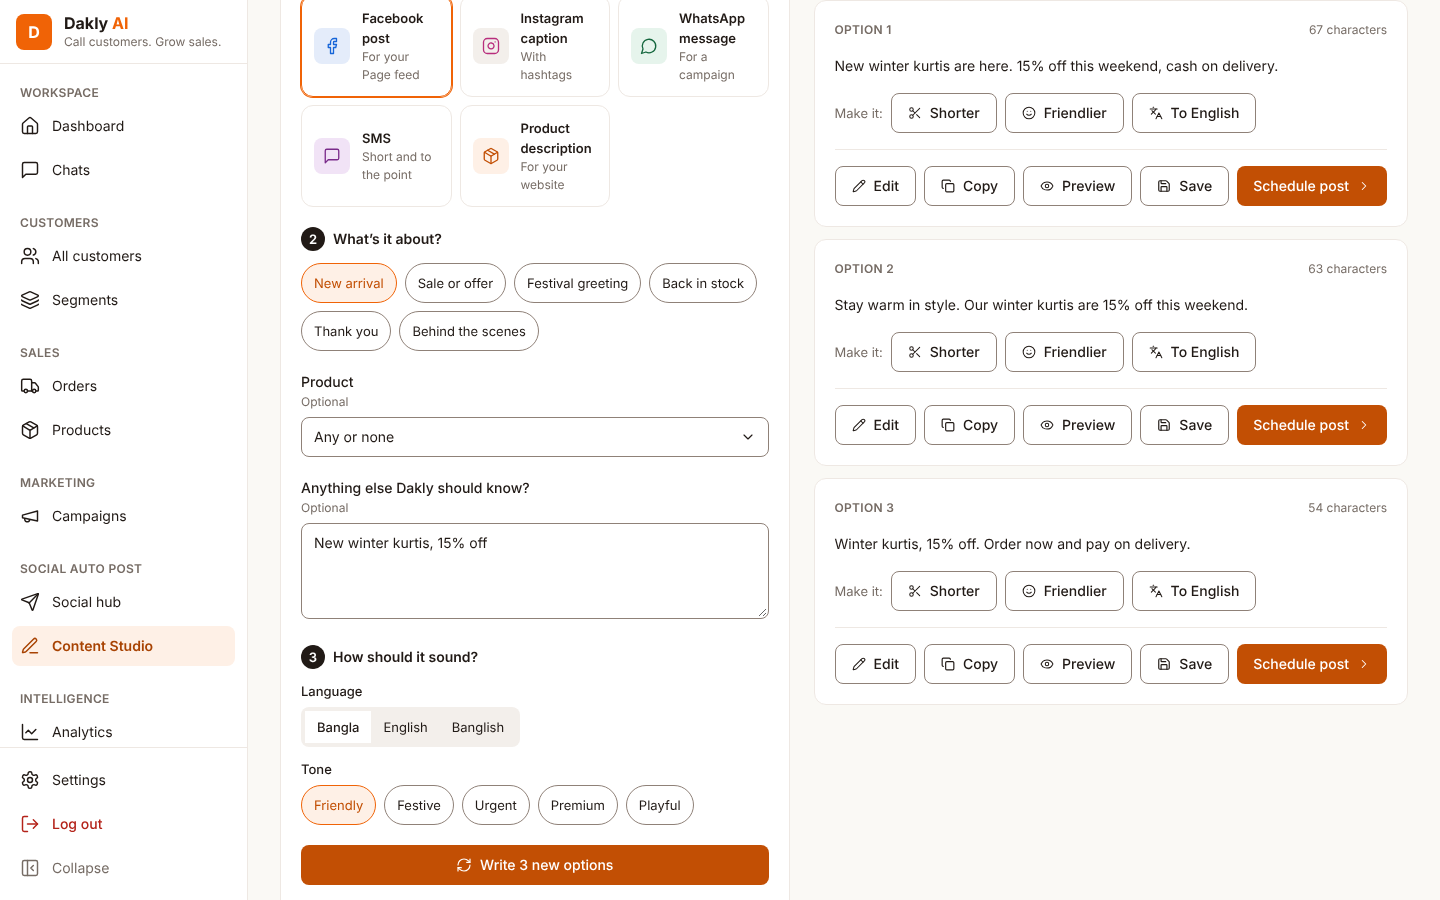
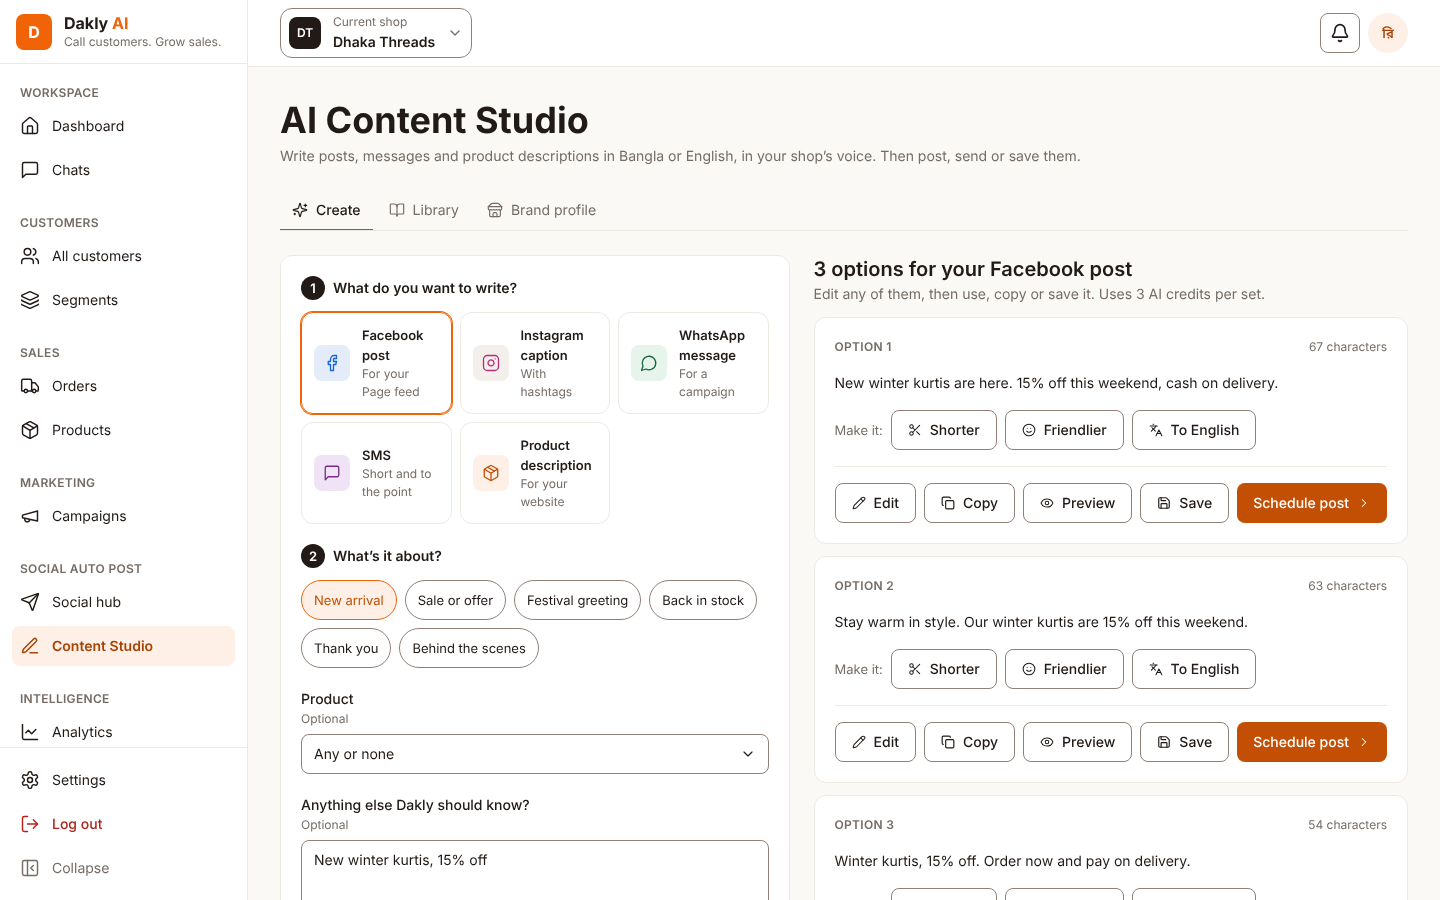
fix(soc-5): keep the format name's capitals in the options heading and retake the options evidence

diff --git a/apps/web/e2e/content-studio.spec.ts b/apps/web/e2e/content-studio.spec.ts
@@ -17,7 +17,8 @@ async function capture(page: Page, name: string, scrollTo?: Locator) {
   ] as const) {
     await page.setViewportSize({ width, height });
     await page.mouse.move(width - 1, height - 1);
-    await scrollTo?.scrollIntoViewIfNeeded();
+    if (scrollTo) await scrollTo.scrollIntoViewIfNeeded();
+    else await page.evaluate(() => scrollTo(0, 0));
     await expect
       .poll(() => page.evaluate(() => document.documentElement.scrollWidth - innerWidth))
       .toBeLessThanOrEqual(0);
@@ -93,7 +94,7 @@ test('writes options, saves one to the library and opens it in Create post', asy
     await page.getByLabel(/Anything else Dakly should know/).fill('New winter kurtis, 15% off');
     await page.getByRole('button', { name: /Write 3 options/ }).click();
     await expect(page.getByRole('article')).toHaveCount(3);
-    await capture(page, 'options', page.getByRole('article').first());
+    await capture(page, 'options');
 
     const first = page.getByRole('article').first();
     await first.getByRole('button', { name: 'Save', exact: true }).click();

diff --git a/apps/web/src/features/content-studio/components/written-options.tsx b/apps/web/src/features/content-studio/components/written-options.tsx
@@ -18,7 +18,7 @@ export function WrittenOptions({ result, asked, form }: WrittenOptionsProps) {
     <section aria-labelledby="options-heading" className="space-y-3">
       <div>
         <h2 id="options-heading" className="text-lg font-semibold">
-          3 options for your {kindLabel(asked.kind).toLowerCase()}
+          3 options for your {kindLabel(asked.kind)}
         </h2>
         <p className="text-text-muted">
           Edit any of them, then use, copy or save it. Uses 3 AI credits per set.
